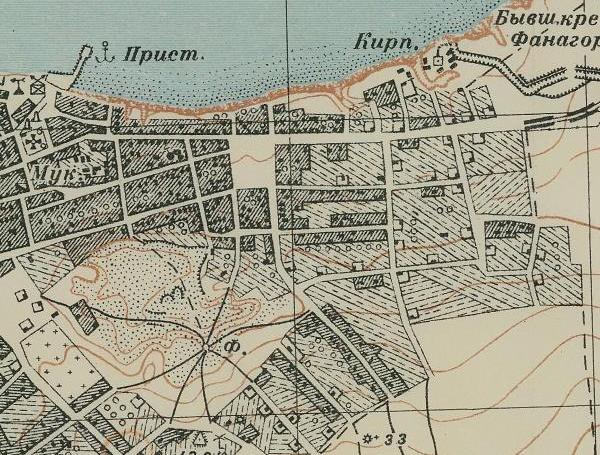
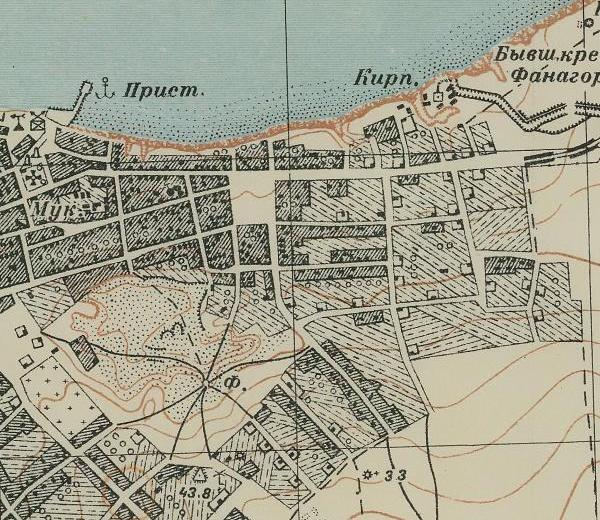
tf4

diff --git a/_toponymy/2026/2026-10-16-turkish-fountain.md b/_toponymy/2026/2026-10-16-turkish-fountain.md
@@ -64,7 +64,7 @@ img-caption: Общий вид на урочище Турецкий фонтан
 Предполагают, что «источник питается артезианскими водами». Но его исследование показало, что это искусственно созданный родник, при оборудовании которого были профессионально учтены природные особенности местности (рельеф, грунты, климат). Под землёй была проложена система труб, **сделанных из обожженной глины**, выходящих к дневной поверхности. После осадков расход воды в фонтане (источнике) значительно увеличивался. Но в период сухого сезона в нём всегда есть вода в небольшом количестве.
 
 <figure>
-    <img src="/img/toponymy/turkish-fountain/schubert-map-1821-1840-fountain-taman.jpg" title="Карта Шуберта 1821-1840 гг. источник Фонтанъ" alt="Фрагменты карты Шуберта Ф.Ф. 1821-1840 годов с источником Фонтанъ между городом Тамань и крепостью Фанагория, селением Чокракъ кой и восточным Фонтанъ" width="800" height="327"/>
+    <img src="/img/toponymy/turkish-fountain/schubert-map-1821-1840-fountain-taman.jpg" title="Карта Шуберта 1821-1840 гг. источник Фонтанъ" alt="Фрагменты карты Шуберта Ф.Ф. 1821-1840 годов с источником Фонтанъ между городом Тамань и крепостью Фанагория, селением Чокракъ кой и восточным Фонтанъ" width="800" height="350"/>
     <figcaption>На фрагментах карты Шуберта Ф.Ф. 1821-1840 гг., обозначены: между городом Тамань и крепостью Фанагория — Фонтанъ, то есть источник; на месте будущей станицы Фонталовской селение Чокракъ кой, а восточнее примерно в 4 км ещё Фонтанъ (правый фрагмент)</figcaption>
 </figure>
 
@@ -106,7 +106,7 @@ img-caption: Общий вид на урочище Турецкий фонтан
 **Герц К.К.** профессор археологии и истории искусств Московского университета, в своей известной работе «Археологическая топография Таманского полуострова» **(1870 г.)**, пишет о источнике у крепости «у подошвы старой турецкой крепости, на самом берегу, находится древний фонтан, вероятно, устроенный греками»  [[3]](#t142-[3]). О фонтане, который сейчас называют Турецким, расположенном между городом Тамань и крепостью, а также озере, Герц К.К. не упоминает.
 
 <figure>
-    <img src="/img/toponymy/turkish-fountain/1941-map-tamanskaya-stanitsa-fountain-mill.jpg" title="Карта 1941 г. станица Тамань фонтан и мельница" alt="Фрагмент карты масштаба 1:100 000 1941 года станицы Тамань с фонтаном в урочище Турецкий Фонтан, геодезическим знаком высотой 43,8 м и мельницей" width="600" height="455"/>
+    <img src="/img/toponymy/turkish-fountain/1941-map-tamanskaya-stanitsa-fountain-mill.jpg" title="Карта 1941 г. станица Тамань фонтан и мельница" alt="Фрагмент карты масштаба 1:100 000 1941 года станицы Тамань с фонтаном в урочище Турецкий Фонтан, геодезическим знаком высотой 43,8 м и мельницей" width="600" height="520"/>
     <figcaption>Фрагмент карты масштаба 1:100 000 1941 г. станицы Тамань, в центре буквой ф. - обозначен фонтан, расположенный в урочище Турецкий Фонтан. У южной окраины урочища значится геодезический знак с абсолютной высотой 43,8 м с восточной стороны знака обозначена мельница</figcaption>
 </figure>
 
